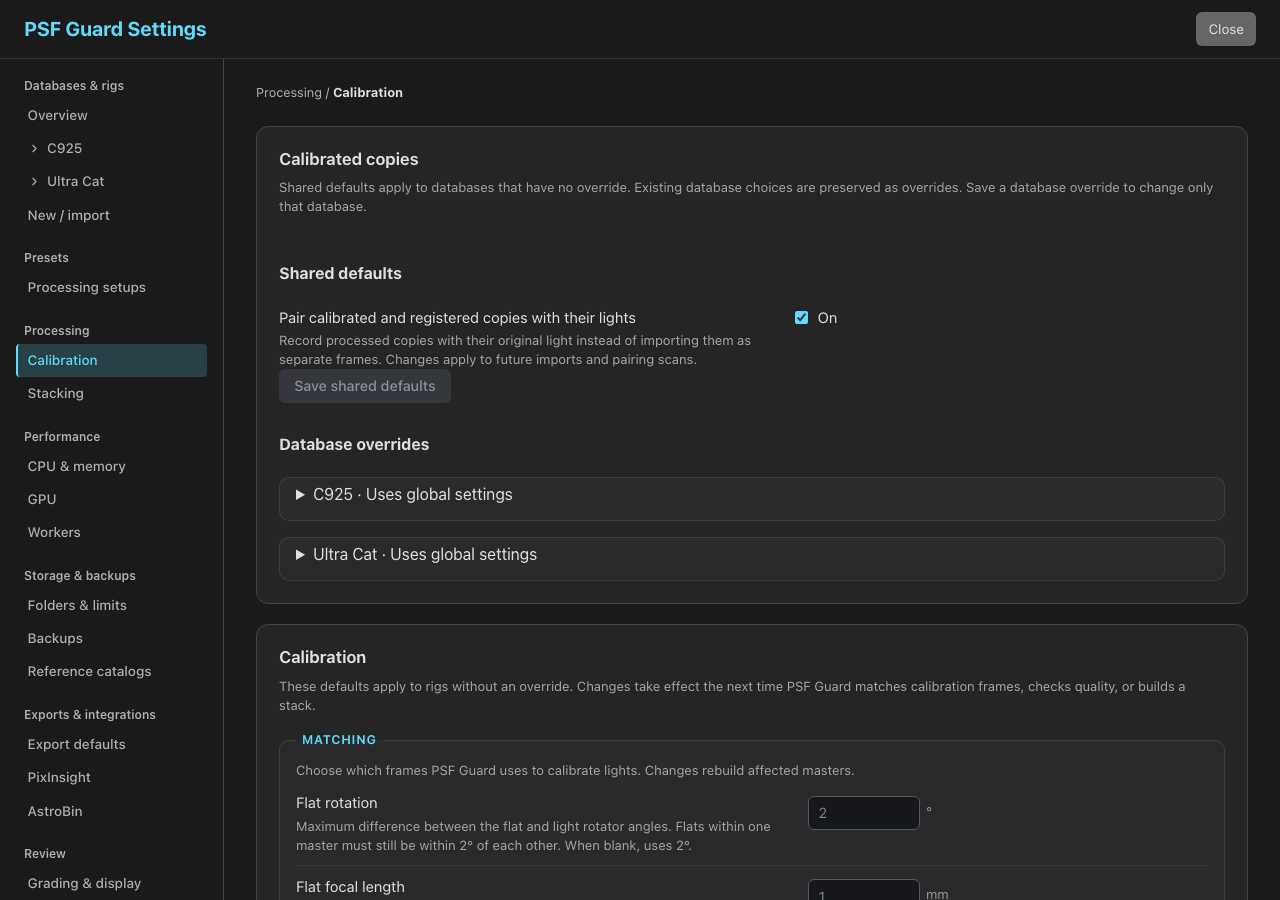
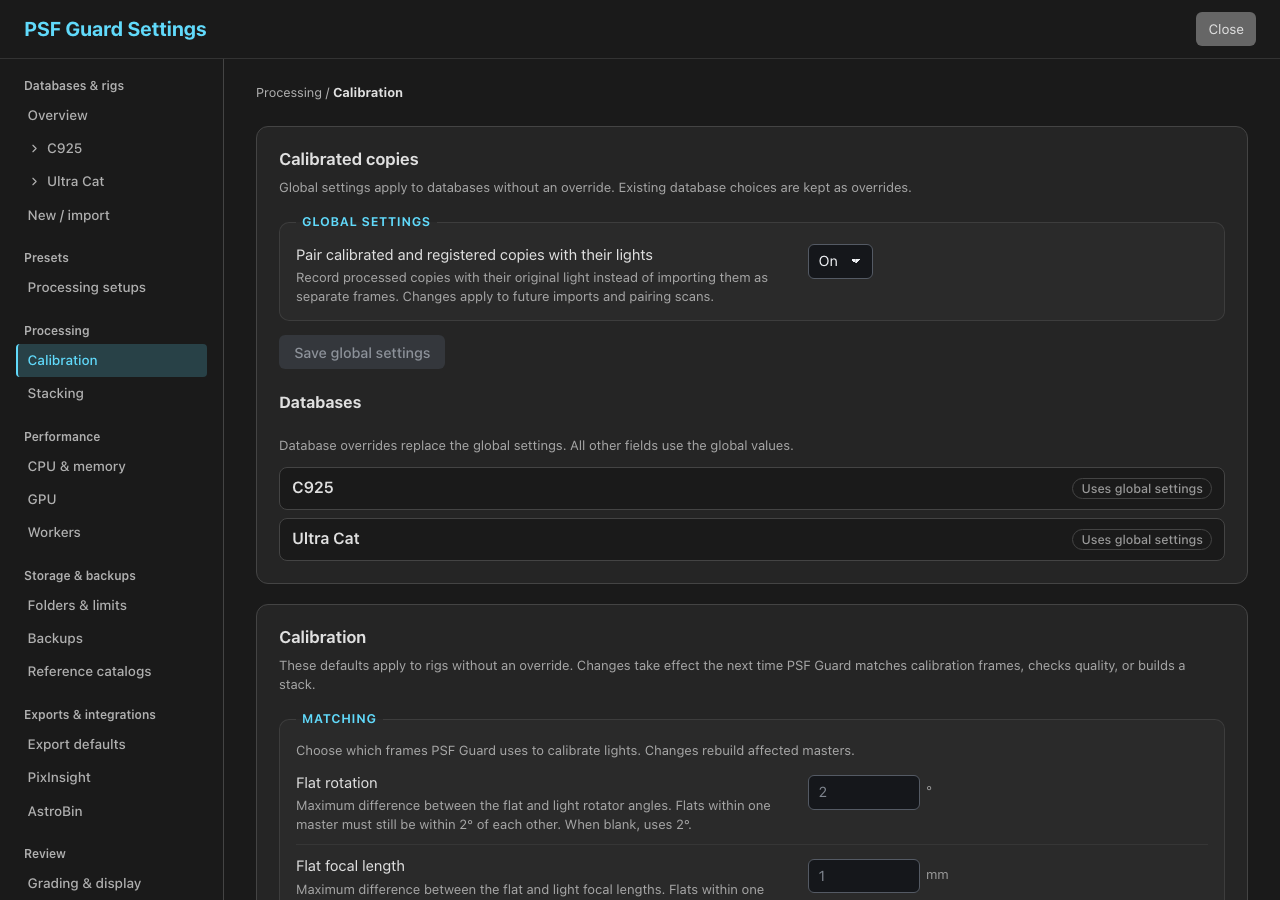
Refresh Settings captures and show import options and phone overrides

diff --git a/static/e2e/rig-database-navigation.spec.ts b/static/e2e/rig-database-navigation.spec.ts
@@ -146,6 +146,14 @@ test('shared pairing defaults respect explicit database values and reset to inhe
   expect(policies.databases.find((entry: { id: string }) => entry.id === 'ultracat').effective.pair_calibrated_copies).toBe(false);
   await page.locator('.tauri-settings .modal-body').evaluate(element => { element.scrollTop = 0; });
   await page.screenshot({ path: testInfo.outputPath('pairing-override-desktop.png'), animations: 'disabled' });
+  await page.setViewportSize({ width: 390, height: 844 });
+  await own.evaluate(element => {
+    const item = element.closest('.calibration-rig-item')!;
+    const scroller = element.closest('.modal-body')!;
+    scroller.scrollTop += item.getBoundingClientRect().top - scroller.getBoundingClientRect().top;
+  });
+  expect(await own.evaluate(element => element.scrollWidth <= element.clientWidth)).toBe(true);
+  await page.screenshot({ path: testInfo.outputPath('pairing-override-phone.png'), animations: 'disabled' });
   await override.click();
   await own.getByRole('button', { name: 'Save database' }).click();
   await expect(pairing.getByRole('button', { name: /^C925.*Uses global settings$/ })).toBeVisible();

diff --git a/docs/images/rig-database-settings/README.md b/docs/images/rig-database-settings/README.md
@@ -14,7 +14,9 @@ APIs. No live database or paired acquisition client is involved.
 
 The gallery includes the overview, database files, Sync, New / import,
 quality analysis, calibrated-copy defaults, a saved database override,
-AstroBin filter maps, rig setup and shared Sites.
+AstroBin filter maps, rig setup and shared Sites. Automatic import is shown
+under **Database & files → Edit paths and import**. Those sample form edits
+are discarded by the test, so no import schedule is saved.
 
 Desktop captures use Chromium at 1280 × 900 CSS pixels, except Rig setup and
 Sites at 1440 × 1000. Phone captures use WebKit at 390 × 844 CSS pixels,
